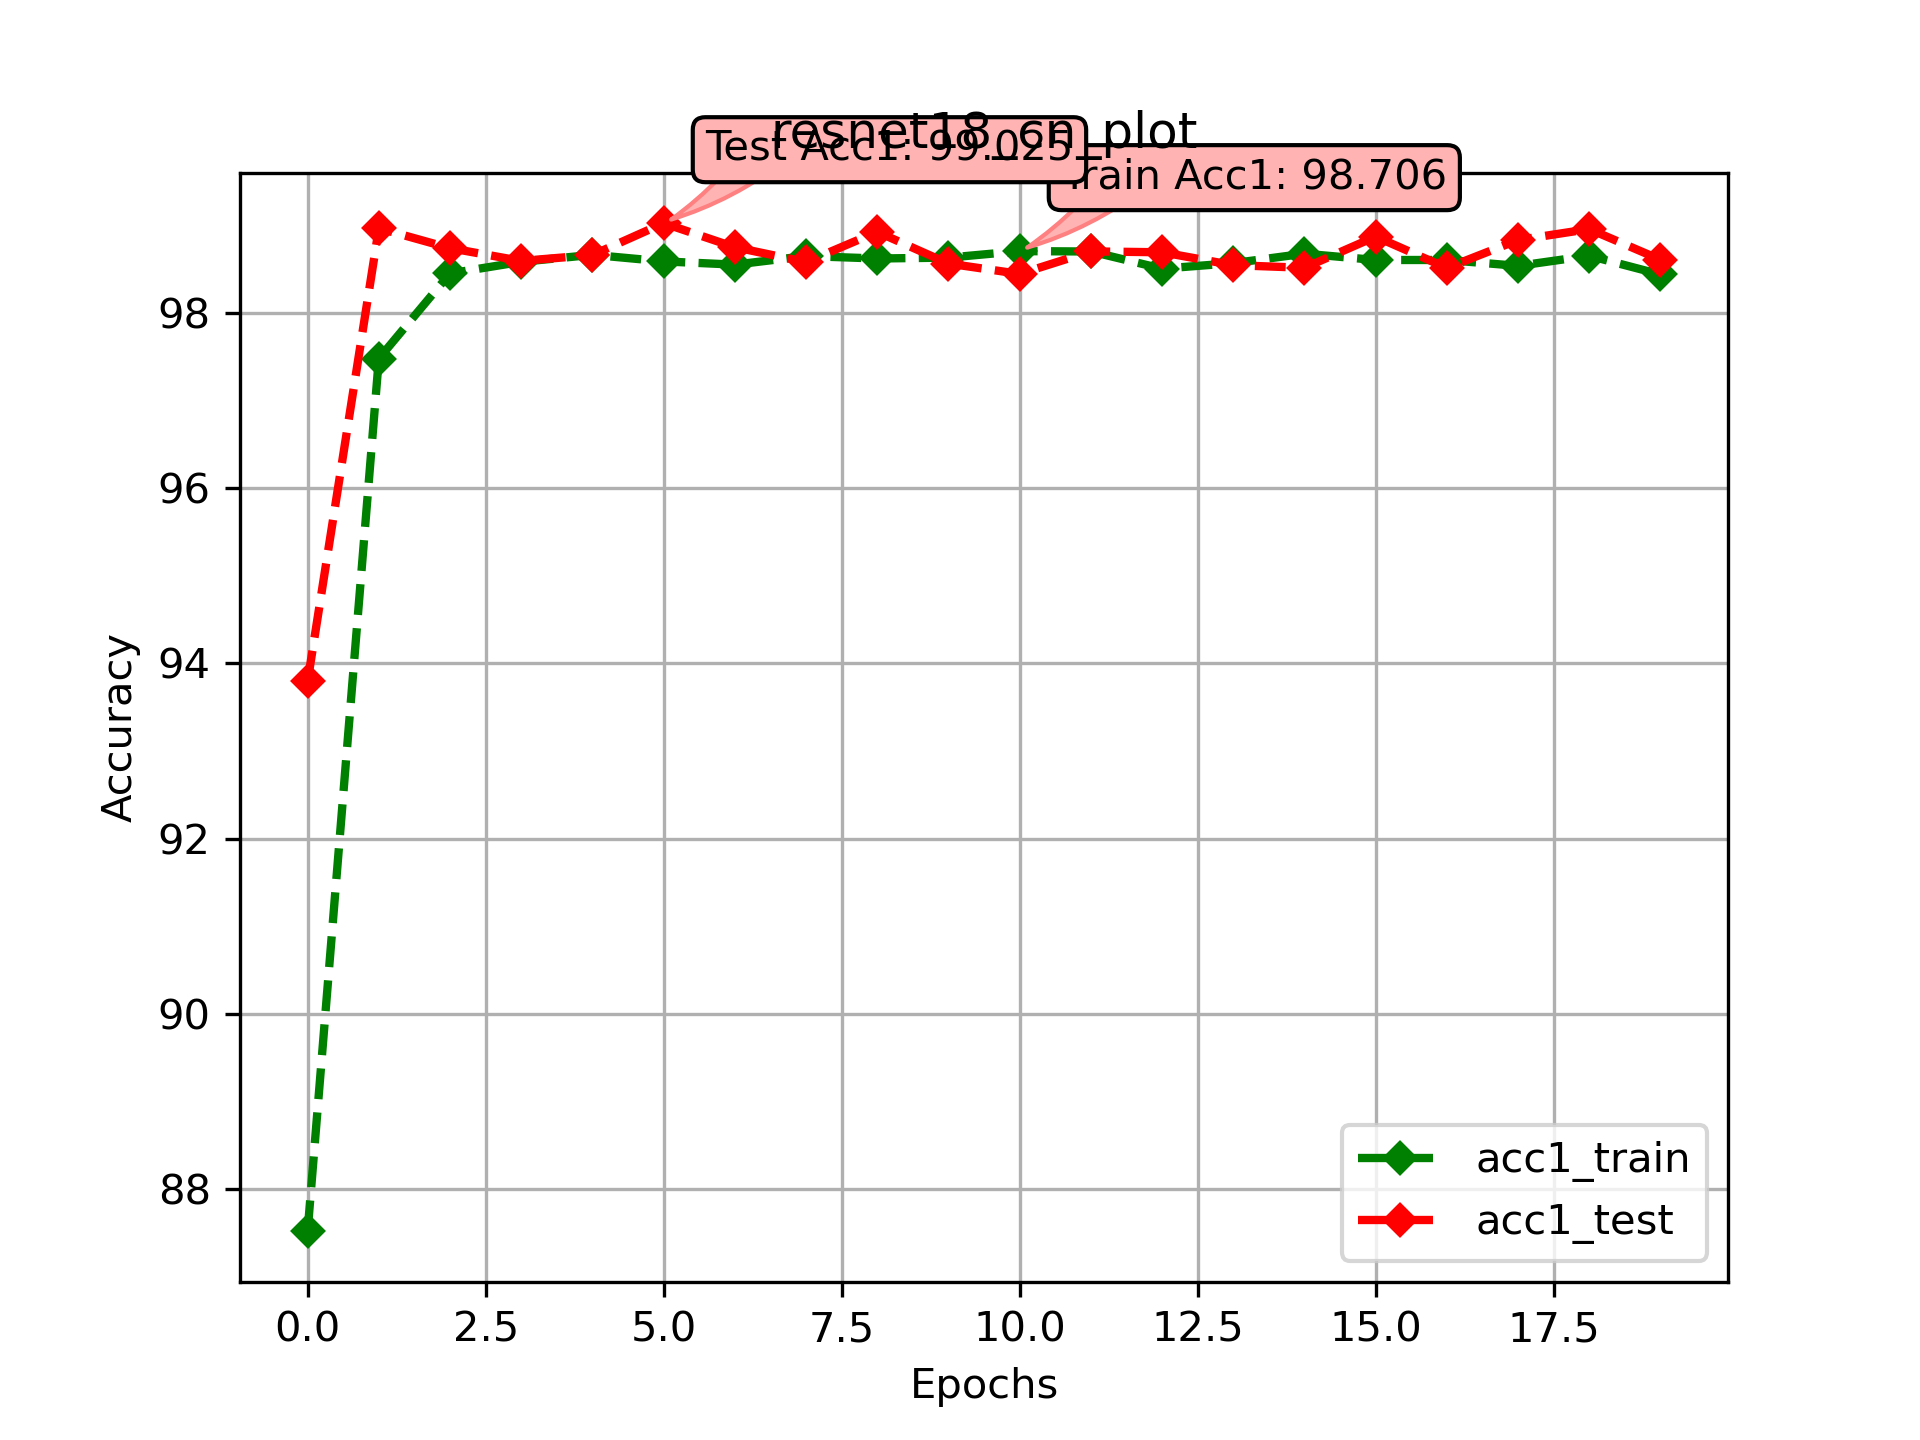
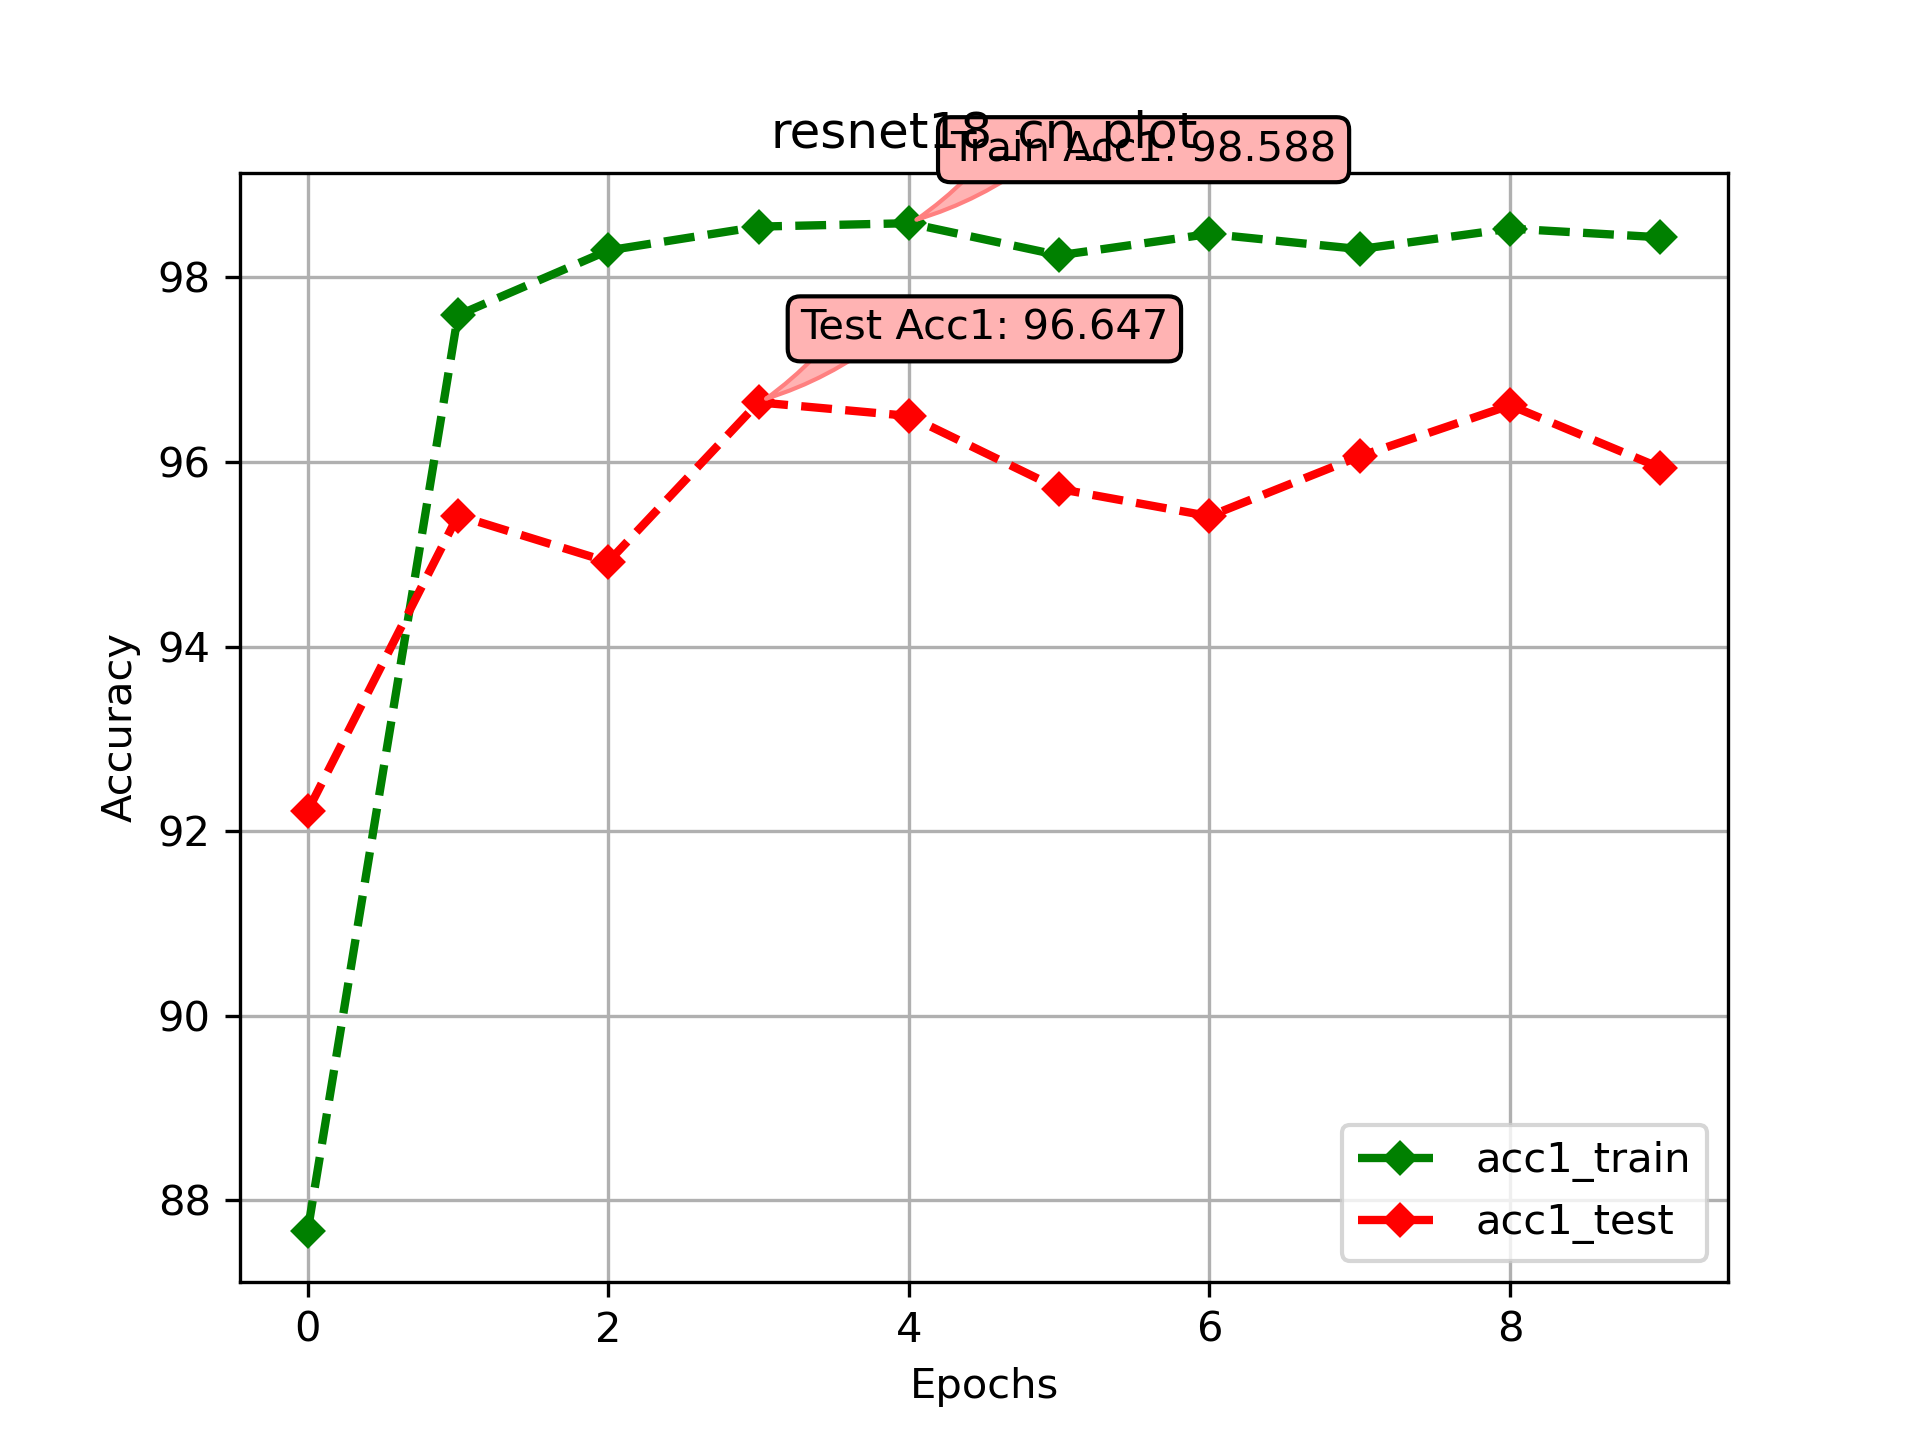
Retested resnet50, and CTX models.

diff --git a/imc_main.py b/imc_main.py
@@ -39,14 +39,14 @@ random.seed(12)
 # =============================================================
 # SELECT: Model, Name, and test_only
 # =============================================================
-model_name = "resnet18_an"
-model = resnet18(pretrained=False)
-# model_name = "resnet50_bn"
+# model_name = "resnet18_cn"
+# model = resnet18(pretrained=False)
+# model_name = "resnet50_an"
 # model = resnet50(pretrained=False)
 # model_name = "vgg16_bn"
 # model = vgg16(pretrained=False)
-# model_name = "nabernet_an"
-# model = NaberNet(0)
+model_name = "nabernet_cn"
+model = NaberNet(0)
 
 # Whether the main should just run a test, or do a full fit.
 # params = [True, True, False, False]         # Training
@@ -79,7 +79,7 @@ if "naber" in model_name and training and 'ucsd' not in SET_NAME.lower():
 # =============================================================
 # SELECT: Optimizer and learning rate.
 # =============================================================
-learning_rate = 0.002
+learning_rate = 0.001
 optimizer = optim.Adam(model.parameters(), lr=learning_rate)
 
 # =============================================================
@@ -88,7 +88,7 @@ optimizer = optim.Adam(model.parameters(), lr=learning_rate)
 if "ucsd" in SET_NAME.lower():
     CLASSES = ['UCSD_NC', 'UCSD_CO']
     IMGSIZE = 256
-    EPOCHS = 20
+    EPOCHS = 10
     normalize = transforms.Normalize(mean=0.6292, std=0.3024)
 elif "sars" in SET_NAME.lower():
     CLASSES = ['SARSCT_NC', 'SARSCT_CO']
